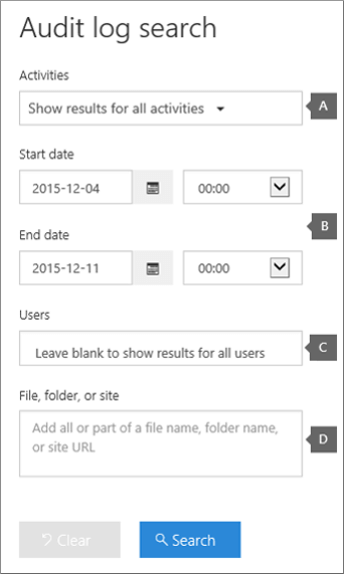
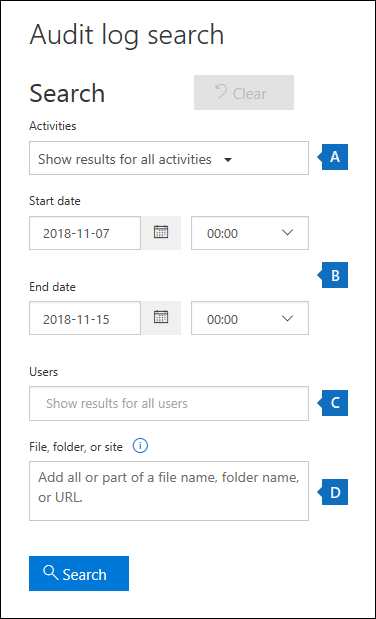
auditing trouble shooting work in progress

Changed region(s): [[0.0, 0.0, 1.0, 1.0], [0.0, 0.0, 0.029, 0.0312]]

diff --git a/SecurityCompliance/auditing-troubleshooting-scenarios.md b/SecurityCompliance/auditing-troubleshooting-scenarios.md
@@ -30,31 +30,33 @@ You have to be assigned the View-Only Audit Logs or Audit Logs role in Exchange 
 
 This section describes the basics for creating and running audit log searches. Use these instructions as a starting point for each troubleshooting scenario in this article. For more detailed step-by-step instructions, see [Search the audit log in the Office 365 Security & Compliance Center ](search-the-audit-log-in-security-and-compliance.md#step-1-run-an-audit-log-search).
 
-1. Go to [https://protection.office.com/#/](https://protection.office.com).
+1. Go to [https://protection.office.com/#/unifiedauditlog](https://protection.office.com/#/unifiedauditlog).
   
 2. Sign in to Office 365 using your work or school account.
     
     The **Audit log search** page is displayed. 
     
-    ![Configure criteria and then click Search to run report](media/8639d09c-2843-44e4-8b4b-9f45974ff7f1.png)
+    ![Configure criteria and then click Search to run the search](media/8639d09c-2843-44e4-8b4b-9f45974ff7f1.png)
   
-3. Configure the following search criteria. Note that each troubleshooting scenario in this article will recommend specific guidance for configuring the search criteria.
+3. You can configure the following search criteria. Note that each troubleshooting scenario in this article will recommend specific guidance for configuring these fields.
     
-    a. **Activities** - Click the drop-down list to display the activities that you can search for. User   and admin activities are organized in to groups of related activities. You can select specific activities or you can click the activity group name to select all activities in the group. You can also click a selected activity to clear the selection. After you run the search, only the audit log entries for the selected activities are displayed. Selecting **Show results for all activities** will display results for all activities performed by the selected user or group of users.
+    a. **Activities** - Click the drop-down list to display the activities that you can search for. After you run the search, only the audit log entries for the selected activities are displayed. Selecting **Show results for all activities** will display results for all activities that meet the other search criteria. You'll also have to leave this field blank return audit records from the Exchange admin audit log.
     
-    b. **Start date** and **End date** - The last seven days are selected by default. Select a date and time range to display the events that occurred within that period. The date and time are presented in Coordinated Universal Time (UTC) format. The maximum date range that you can specify is 90 days. An error is displayed if the selected date range is greater than 90 days. 
+    b. **Start date** and **End date** - Select a date and time range to display the events that occurred within that period. The last seven days are selected by default. The date and time are presented in Coordinated Universal Time (UTC) format. The maximum date range that you can specify is 90 days.
 
     c. **Users** - Click in this box and then select one or more users to display search results for. The audit log entries for the selected activity performed by the users you select in this box are displayed in the list of results. Leave this box blank to return entries for all users (and service accounts) in your organization. 
     
-    d. **File or folder** - Type some or all of a file or folder name to search for activity related to the file of folder that contains the specified keyword. You can also specify a URL of a file or folder. If you use a URL, be sure the type the full URL path or if you just type a portion of the URL, don't include any special characters or spaces. 
-    
-    Leave this box blank to return entries for all files and folders in your organization.
+    d. **File or folder** - Type some or all of a file or folder name to search for activity related to the file of folder that contains the specified keyword. You can also specify a URL of a file or folder. If you use a URL, be sure the type the full URL path or if you just type a portion of the URL, don't include any special characters or spaces. Leave this box blank to return entries for all files and folders in your organization.
     
 4. Click **Search** to run the search using your search criteria. 
     
-    The search results are loaded, and after a few moments they are displayed under **Results**. When the search is finished, the number of results found is displayed. Note that a maximum of 5,000 events will be displayed in the **Results** pane in increments of 150 events; if more than 5,000 events meet the search criteria, the most recent 5,000 events are displayed. 
-    
-    ![The number of results are displayed after the search is finished](media/986216f1-ca2f-4747-9480-e232b5bf094c.png)
+    The search results are loaded, and after a few moments they are displayed under **Results** on the **Audit log search** page. Each to the following sections will provide guidance about things to look for the specific troubleshooting scenario. 
+
+    For more information about viewing, filtering, or exporting audit log search results, see: 
+
+    - [View search results](search-the-audit-log-in-security-and-compliance.md#step-2-view-the-search-results)
+    - [Filter search results](search-the-audit-log-in-security-and-compliance.md#step-3-filter-the-search-results)
+    - [Export search results](search-the-audit-log-in-security-and-compliance.md#step-4-export-the-search-results-to-a-file)
 
 ## Finding the IP address of the computer used to access a compromised account
 
